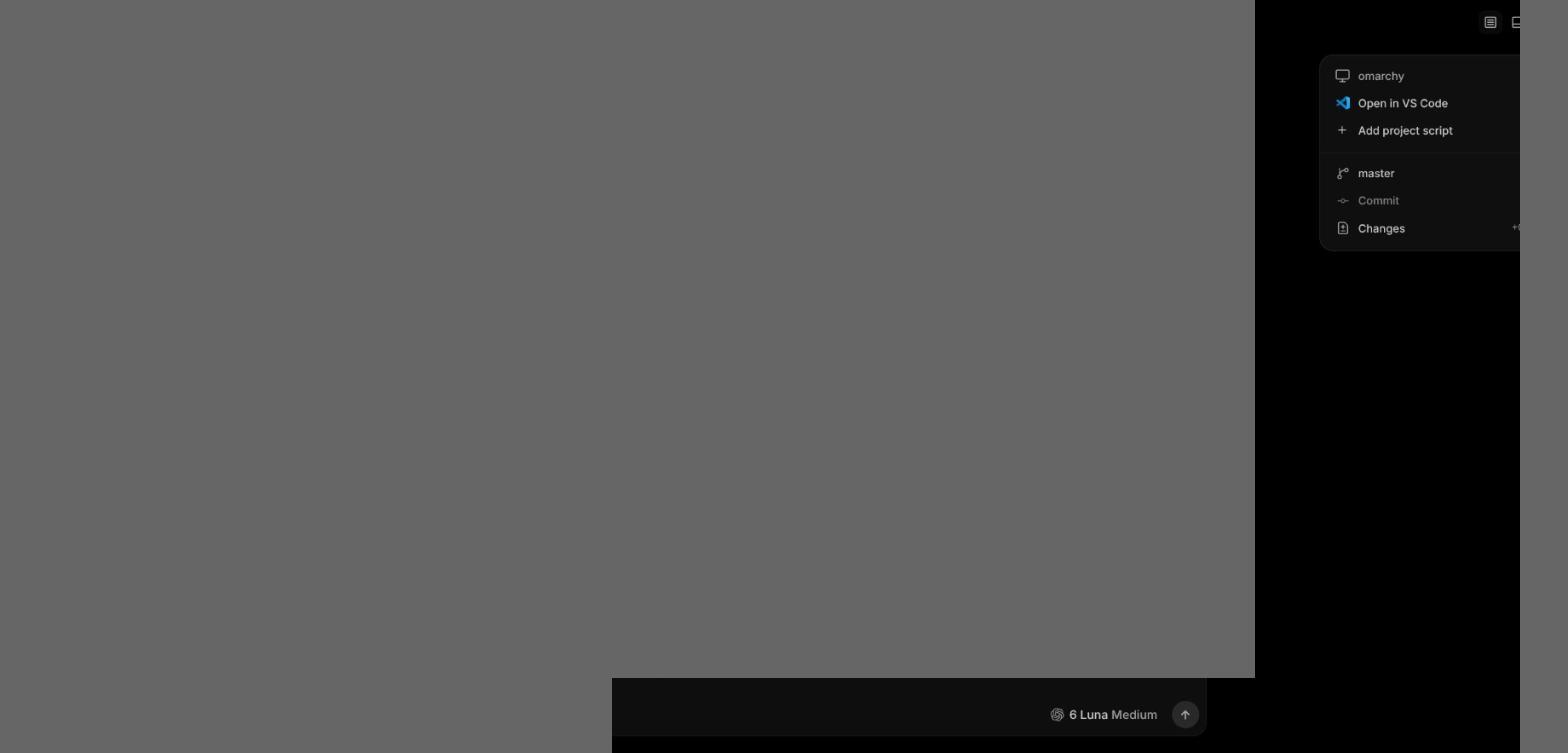
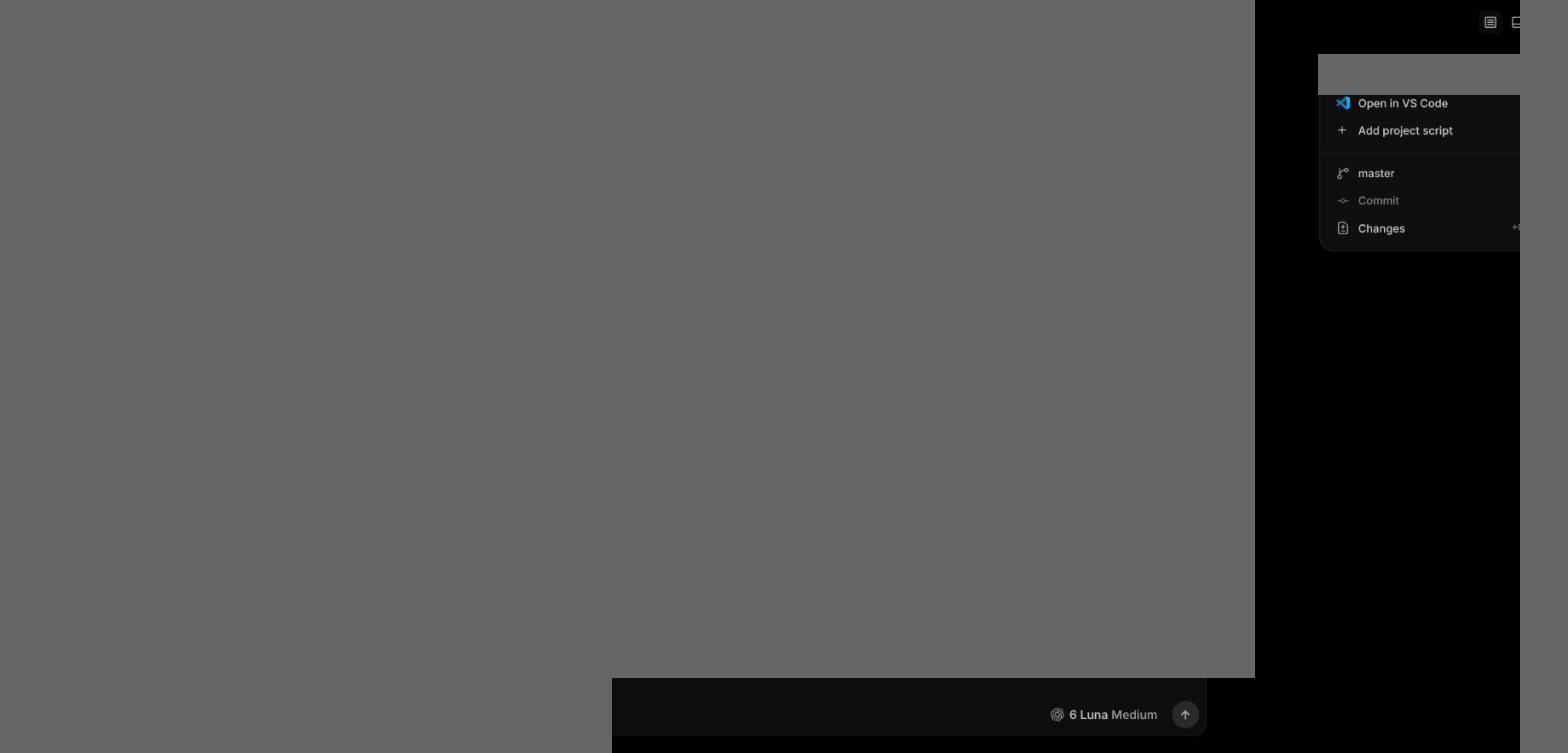
docs(3614): generalize personal device topology and mask machine labels

Changed region(s): [[0.8125, 0.0611, 0.9688, 0.1527]]

diff --git a/docs/research/desktop-mobile-mcp-forms-2026-11-08.md b/docs/research/desktop-mobile-mcp-forms-2026-11-08.md
@@ -2,7 +2,7 @@
 
 Publication note: restored historical research, with private details redacted. Evidence labels describe the original research session; recommendations are not implementation approval or current policy.
 
-> **Question.** The owner keeps three surfaces: a desktop app he uses himself, the mobile web/PWA on Android (iOS native paused), and an MCP view that shows which servers each machine has (a marketplace maybe later). For each: what form, what it can do, how to build it, and what to leave out. The product stays lean: the smallest form that serves the owner's own daily use.
+> **Question.** This research considers three product surfaces: a desktop client, an Android web/PWA client (native iOS deferred), and an MCP view that shows which servers each machine has (a marketplace maybe later). For each: what form, what it can do, how to build it, and what to leave out. The product stays lean: the smallest form that supports daily use.
 >
 > **Marks.** **measured**: read or run first-hand in this session (doc page, source at a pinned ref, live API response, command output, page operated in Chrome). **inferred**: derived from measured and checkable. **unverified**: everything else.
 >
@@ -10,7 +10,7 @@ Publication note: restored historical research, with private details redacted. E
 >
 > **Builds on.** `docs/research/desktop-app-stack-2026-11-08.md` (Electron chosen for the shell; not reopened here). Spec 30 (`docs/spec/30-harness-profile-opt-in.md`) for MCP definitions across machines.
 >
-> **Blocked sources.** claude.ai connector directory page (`claude.ai/directory`): Cloudflare "verify you are human" checkbox in the owner's Chrome; agents do not solve CAPTCHAs. Covered instead by the Claude Code docs and by the connector registry the Claude session itself queries (measured, section 3.1). The Claude desktop app, Codex app, Cursor app and Linear app were not operated (no desktop-control session on the Mac); their rows rest on first-party docs and, for the desktop shells, on the bundle analysis in the stack note. Smithery's connection product shut down on 2026-10-31, so only its shutdown notice is read.
+> **Blocked sources.** claude.ai connector directory page (`claude.ai/directory`): Cloudflare "verify you are human" checkbox in the research browser; agents do not solve CAPTCHAs. Covered instead by the Claude Code docs and by the connector registry the Claude session itself queries (measured, section 3.1). The Claude desktop app, Codex app, Cursor app and Linear app were not operated (no desktop-control session was available); their rows rest on first-party docs and, for the desktop shells, on the bundle analysis in the stack note. Smithery's connection product shut down on 2026-10-31, so only its shutdown notice is read.
 
 ## 0. What cairn has today (measured)
 
@@ -18,7 +18,7 @@ Publication note: restored historical research, with private details redacted. E
 |---|---|---|
 | Desktop app | `planned`. Feature map: "a web shell that bundles the server, daemon, Coordinator and tsnet, so installing it makes the machine an executor"; gaps: no design for tray, window, install, packaging, updates, data location | `.claude/skills/verify-cairn/feature-map.json` id `desktop-app`; stack note |
 | Mobile web / PWA | `shipped`. `manifest.webmanifest` (standalone, `launch_handler: navigate-existing`, maskable icons, screenshots). `sw.js` has **no fetch handler** by design, handles `push` (title/body/tag, posts a delivery receipt to `/api/teams/:id/push/receipts`) and `notificationclick` (persists the href to CacheStorage, then focuses or opens a window). `push-device.ts` does VAPID subscribe/unsubscribe per device. Server side: `services/push.ts`, `push-alerts.ts` (delivery rows plus an SMTP fallback when push is not confirmed), `thread-push.ts`, and `pwa/thread-presence.ts` (a visible tab heartbeats presence, so the thread being viewed is not pushed) | `apps/web/public/sw.js`, `apps/web/src/pwa/*`, `apps/server/src/services/push*.ts` |
-| iOS app | `planned`, paused by the owner | feature map id `ios-app` |
+| iOS app | `planned`, deferred in the roadmap | feature map id `ios-app` |
 | MCP servers page | `shipped`, read-only. Reads **the server machine's** `~/.claude.json` top-level `mcpServers` only (`parseClaudeMcpEntries` ignores `projects[path].mcpServers`, `.mcp.json`, plugins, Codex `config.toml` and pi). Rows: name, transport, command or URL, env/header **key names** only. Write verbs 404 | `apps/server/src/services/mcp-servers.ts`, `packages/shared/src/protocol/mcp.ts:89`, `.claude/skills/verify-cairn/features/mcp-servers.md` |
 | Per-machine MCP facts | The daemon **already reports** each machine's MCP slugs and skill names in `capabilities` (`apps/daemon/src/machine-capabilities.ts`, mtime-cached). The server uses them for dispatch eligibility (`services/dispatch-eligibility.ts:38-80`). The machine detail pane shows only a count, `MCP {n} · 本机技能 {m}` (`apps/web/src/resources/machine-detail-pane.tsx:310`) | as cited |
 | Coordinator over MCP | `shipped`: `/api/mcp` lets outside harnesses talk to the Coordinator with an API key | feature map id `coordinator-mcp` |
@@ -56,13 +56,13 @@ Offline is not a feature anyone builds for an agent product beyond queued writes
 
 ### 1.3 Recommendation for cairn
 
-The owner's real topology: an always-on Linux box runs the cairn server and the main daemon; he sits at a Mac or the Linux desktop. So his desktop app is a **client of the always-on server** that can optionally make the current computer a second worker. Bundling a server is the stranger-onboarding story (D100/D105) and is a later phase, not the owner's daily need.
+For an existing self-hosted deployment, the desktop app can be a **client of a configured server** that optionally makes the current computer another worker. This is a generic deployment scenario, not a description of a personal installation. Bundling a server belongs to the new-installation flow (D100/D105) and is deferred in this historical proposal.
 
 Should do (3-5), one measured example each:
 
 | # | Capability | Example measured | cairn form |
 |---|---|---|---|
-| D1 | Window on the always-on server's origin, remembered per install; single instance | Orca pairs a client to a Remote Orca Server with a link (measured) | Electron `BrowserWindow.loadURL(<server origin over tailnet>)`, the same SPA; first run asks for the server URL or a pairing link |
+| D1 | Window on a configured server origin, remembered per install; single instance | Orca pairs a client to a Remote Orca Server with a link (measured) | Electron `BrowserWindow.loadURL(<server origin over tailnet>)`, the same SPA; first run asks for the server URL or a pairing link |
 | D2 | Tray / menu-bar with "needs you" count, and OS notifications only for needs-input / failed / PR ready, suppressed for the visible thread | Codex: completion alerts "only in background" plus separate permission toggles; Amp: never for the thread on screen (measured) | Reuse the existing push events and the `thread-presence` heartbeat; the desktop subscribes like a device and shows `Notification` + `Tray` badge; zero the badge on focus as t3code does |
 | D3 | `cairn://` deep links that open a prefilled draft in the Coordinator or a thread, never auto-run | `claude://code/new?...&q=` asks to confirm; t3code prompt links never run anything (measured) | Register the scheme; map `cairn://thread/<id>` and `cairn://new?q=` onto existing web routes |
 | D4 | "Use this computer as a worker" switch | Amp runner: uses the installed CLI, folder allowlist, restart on exit, stop on quit, keep-awake while plugged in, explicit Missing / Not signed in / Too old states (measured) | Spawn the existing `apps/daemon` with this machine's registration, an explicit allowed-folders list, `powerSaveBlocker` while on AC; diagnose `claude` / `codex` / `pi` presence and sign-in, never bundle them |
@@ -72,11 +72,11 @@ Leave out:
 
 - A second UI or native panes: the SPA is the UI (D45).
 - Bundling Claude Code / Codex binaries (Conductor does it and must then pin them; Amp and Claude-SSH use what is installed) (measured).
-- Bundling the server, Coordinator and tsnet in the owner's first slice: his server already runs on the always-on box. Keep D100's bundled mode for the stranger install phase.
+- Bundling the server, Coordinator and tsnet in the existing-deployment slice. Keep D100's bundled mode for the new-installation phase.
 - Offline mode, an in-app terminal, an in-app browser, computer use, SSH session management (the daemon already runs where the code is).
 - Windows build until someone needs it.
 
-**First slice.** `apps/desktop`: Electron window on a configured server origin + tray with the needs-you count + OS notifications from the existing push stream with presence suppression + `cairn://` drafts + electron-updater, AppImage and unsigned DMG. Acceptance: on the Linux desktop and the Mac, a task that asks a question raises one notification, clicking it lands in the thread, the badge clears, nothing fires for the thread on screen. D4 (worker switch) is slice two, because it touches daemon registration (`apps/daemon/src/credentials.ts`, `apps/server/src/routes-machine.ts`, both owner-routed security surfaces).
+**First slice.** `apps/desktop`: Electron window on a configured server origin + tray with the needs-you count + OS notifications from the existing push stream with presence suppression + `cairn://` drafts + electron-updater, AppImage and unsigned DMG. Acceptance: on supported desktop platforms, a task that asks a question raises one notification, clicking it lands in the thread, the badge clears, nothing fires for the thread on screen. D4 (worker switch) is slice two, because it touches daemon registration (`apps/daemon/src/credentials.ts`, `apps/server/src/routes-machine.ts`, both owner-routed security surfaces).
 
 ---
 
@@ -132,7 +132,7 @@ Should do:
 
 Leave out: native iOS and Android apps, Live Activities / ongoing notifications (need native, measured above), a terminal or file editor on the phone, in-page voice dictation (Gboard voice typing already works in any text field, inferred), offline write queue, approving commands straight from the lock screen.
 
-**First slice.** M1 + M4 + M3: notification classes with per-device toggles, manifest `shortcuts`, `share_target` into a Coordinator draft. All are manifest and service-worker changes plus one server tag. Acceptance on the owner's Android phone: install from Chrome, long-press shows two shortcuts, sharing a URL from another app opens a Coordinator draft, a question push arrives with the screen locked and opens the thread, a done push can be muted without muting questions.
+**First slice.** M1 + M4 + M3: notification classes with per-device toggles, manifest `shortcuts`, `share_target` into a Coordinator draft. All are manifest and service-worker changes plus one server tag. Acceptance on an Android test device: install from Chrome, long-press shows two shortcuts, sharing a URL from another app opens a Coordinator draft, a question push arrives with the screen locked and opens the thread, a done push can be muted without muting questions.
 
 ---
 
@@ -183,11 +183,11 @@ Leave out: a hosted MCP proxy or gateway (Smithery folded theirs; Aperture alrea
 
 ## 4. Open items
 
-- Operate the claude.ai connector directory once the owner clears the Cloudflare check in his Chrome.
-- On the Android phone: confirm WebAPK minting for the tailnet-only origin and that Web Push arrives with Chrome closed.
-- The Claude desktop, Codex and Cursor desktop apps were read through docs only; a hands-on pass on the Mac would confirm notification and badge behavior screen by screen.
+- Operate the claude.ai connector directory once an authorized tester clears the Cloudflare check in the research browser.
+- On an Android test device: confirm WebAPK minting for the tailnet-only origin and that Web Push arrives with Chrome closed.
+- The Claude desktop, Codex and Cursor desktop apps were read through docs only; a hands-on pass on a supported desktop platform would confirm notification and badge behavior screen by screen.
 
-## Addendum: claude.ai Directory, operated 2026-11-08 (measured, signed-in Mac Chrome)
+## Addendum: claude.ai Directory, operated 2026-11-08 (measured, signed-in research browser)
 
 - `https://claude.ai/directory` loaded with no challenge on this pass. The page has one search box ("Search plugins & connectors"), a Filter menu, "Add custom" and "Submissions".
 - The Filter menu offers categories (Topic, Department, Industry, Everyday life) and types with counts: Trending 9, New 10,306, Verified 1,512, Community 8,794, Custom 1, In-chat UI 752, Desktop extensions 132.

diff --git a/docs/research/zero-command-access-2026-11-08.md b/docs/research/zero-command-access-2026-11-08.md
@@ -1,4 +1,4 @@
-# Zero-command access from all of the owner's devices (2026-11-08)
+# Zero-command access across devices (2026-11-08)
 
 Publication note: restored historical research, with private details redacted. Evidence labels describe the original research session; recommendations are not implementation approval or current policy.
 
@@ -6,21 +6,21 @@ Publication note: restored historical research, with private details redacted. E
 >
 > **Marks.** **`measured`**: read first-hand this session (official doc page, source at a named ref, command output, or the running product). **`inferred`**: derived from `measured` and checkable. **`unverified`**: everything else.
 >
-> **Refs.** cairn at `origin/main` `2ff7e8761`. Tailscale source at `v1.104.5` (Go module cache, the version `apps/tsnet-sidecar` pins). t3code `main` `ade473018`, `docs/user/remote-access.md` last changed in `d520d5bb8`. openai/codex `main` `9ba7a3df5`. The server host runs tailscaled 1.104.2.
+> **Refs.** cairn at `origin/main` `2ff7e8761`. Tailscale source at `v1.104.5` (Go module cache, the version `apps/tsnet-sidecar` pins). t3code `main` `ade473018`, `docs/user/remote-access.md` last changed in `d520d5bb8`. openai/codex `main` `9ba7a3df5`.
 >
 > **Builds on.** [`remote-access-tsnet.md`](remote-access-tsnet.md) (D103: the user's own Tailscale account, no cairn-run server), [`seamless-device-auth-2026-11-08.md`](seamless-device-auth-2026-11-08.md) (tailnet owner identity, shipped in #3440) and [`docs/deploy/tailscale-mobile.md`](../deploy/tailscale-mobile.md).
 >
-> **Method note.** The `agent-reach web` channel hit a one-hour rate limit (`RATE_LIMITED`, "retry later"). Pages were then fetched with `curl` and stripped to text. Nabu Casa's support site sits behind a Cloudflare JavaScript challenge, so it was read in the owner's Chrome. GitHub sources were read with `gh api`.
+> **Method note.** The `agent-reach web` channel hit a one-hour rate limit (`RATE_LIMITED`, "retry later"). Pages were then fetched with `curl` and stripped to text. Nabu Casa's support site sits behind a Cloudflare JavaScript challenge, so it was read in the research browser. GitHub sources were read with `gh api`.
 
 ## 1. What cairn needs today, measured
 
 | Fact | Mark | Source |
 |---|---|---|
-| the owner's box needs two manual steps: `CAIRN_TSNET=socket` in the service env, and `tailscale serve --bg unix:…/tailnet.sock` (root or operator). Serve on the host now points at `unix:<HOME>/.cairn/tsnet/tailnet.sock`. | `measured` | `docs/deploy/tailscale-mobile.md` §1-2; `tailscale serve status` |
+| Socket-mode setup requires two manual steps: `CAIRN_TSNET=socket` in the service env, and `tailscale serve --bg unix:…/tailnet.sock` (root or operator). Socket-mode deployments use a Unix socket upstream. | `measured` | `docs/deploy/tailscale-mobile.md` §1-2 |
 | `CAIRN_TSNET=1` already spawns the Go sidecar, which emits `authUrl`, reports `ownerLogin`/`selfTagged`, opens `ListenTLS(":443")` and rejects tagged and sharee peers. | `measured` | `apps/tsnet-sidecar/internal/sidecar/node.go`, `run.go:153-175` |
 | The Remote access page already shows `请先登录 Tailscale：{url}` when the sidecar is in `needs-login`. It is shown as text, not a button, and the sidecar only starts when an env var is set. | `measured` | `apps/web/src/routes/remote-access-page.tsx:121-180`; `apps/server/src/config.ts:206` |
 | The sidecar binary built from `origin/main` for linux/amd64 is 32,691,423 bytes. | `measured` | `go build` in a scratch directory |
-| Run with a fresh state dir, the sidecar printed `LocalBackend state is NeedsLogin; running StartLoginInteractive...` and emitted `{"type":"authUrl"}` with a `login.tailscale.com/a/…` URL. It exits as soon as its stdin closes. | `measured` | scratch run; process stopped before sign-in, no node was added (`tailscale status` has no such node) |
+| Run with a fresh state dir, the sidecar printed `LocalBackend state is NeedsLogin; running StartLoginInteractive...` and emitted `{"type":"authUrl"}` with a `login.tailscale.com/a/…` URL. It exits as soon as its stdin closes. | `measured` | scratch run; process stopped before sign-in |
 | Opening that URL shows "Log in to connect a device to your tailnet": email, Google, Microsoft, GitHub, Apple, passkey, plus "Alternatively, use a QR code". The sign-in was not completed, because passwords and 2FA are the owner's to enter. | `measured` | [screenshot](zero-command-access-2026-11-08/tsnet-authurl-login.jpg) |
 [Redacted: private measurements.]
 
@@ -73,7 +73,7 @@ Click counts below assume the user is already signed in to their identity provid
 
 | Claim inside the proposal | Verdict | Evidence |
 |---|---|---|
-| No sudo, no system Tailscale needed on the server | **Holds.** tsnet is userspace in the user's own process; the sidecar ran as `the owner` with a private state dir. | `measured` scratch run |
+| No sudo, no system Tailscale needed on the server | **Holds.** tsnet is userspace in the user's own process; the sidecar ran as an unprivileged user with a private state dir. | `measured` scratch run |
 | One click | **No: 1 click in cairn plus 2-4 at Tailscale**, and one more consent step on tailnets without HTTPS. | `measured` login page; `tsnet.go:1467-1471`; KB 1153 |
 | The owner is recognised with no allowlist | **Holds for interactive login only.** An interactive node is untagged and owned by the user, so the sidecar's `ownerLogin` matches. An auth-key or tagged node loses that (`selfTagged` means allowlist only). | `measured` `node.go:57-72`; `docs/deploy/tailscale-mobile.md` §1 |
 | It keeps working | **Breaks after 180 days** unless the user re-authenticates or disables key expiry for the node. HA's add-on documents the same chore. | `measured` KB 1028, HA DOCS.md |
@@ -106,7 +106,7 @@ Click counts below assume the user is already signed in to their identity provid
 | First phone without Tailscale: install the app, Get Started, allow VPN, sign in with the same IdP | about 5 taps plus the store install | 0 | 0 | `measured` KB 1020/1079 |
 | Then scan the **Open on phone** QR in cairn, which opens `https://<node>.<tailnet>.ts.net/app` and is admitted as the owner | 1 scan | 0 | 0 | `inferred` (owner admit is `measured` in #3440 e2e) |
 | Optional: Add to Home Screen for the PWA and push | 3 | 0 | 0 | `measured` deploy doc |
-| **Each additional device already on the tailnet** (the owner's iPhone today) | **1 scan or 1 bookmark** | **0** | **0** | `inferred` |
+| **Each additional device already on the tailnet** | **1 scan or 1 bookmark** | **0** | **0** | `inferred` |
 
 [Redacted: private measurements.]
 
@@ -118,7 +118,7 @@ Click counts below assume the user is already signed in to their identity provid
 - Trusted parties: the Tailscale control plane, which asserts who the user is (`inferred`: a control-plane compromise could forge identity); the user's IdP; and same-uid local processes (already trusted, `measured` prior research §4).
 - New exposures: the node name goes into CT logs when HTTPS is enabled (`measured` KB 1153), and the node state dir holds the node key (`inferred`: keep `<CAIRN_HOME>/tsnet/state` at 0700, as `ensurePrivateDir` does, `measured`).
 - Funnel stays off by default, token or pairing only, no identity, no screen (D103 §4).
-- Starting the sidecar unauthenticated joins nothing: the node exists in the tailnet only after the user completes the login (`measured`: no `zca-walk` node after the scratch run).
+- Starting the sidecar unauthenticated joins nothing: the node exists in the tailnet only after the user completes the login (`measured`: the scratch run ended before enrollment).
 
 ### 5.4 Failure modes the implementation must cover (tests first)
 
